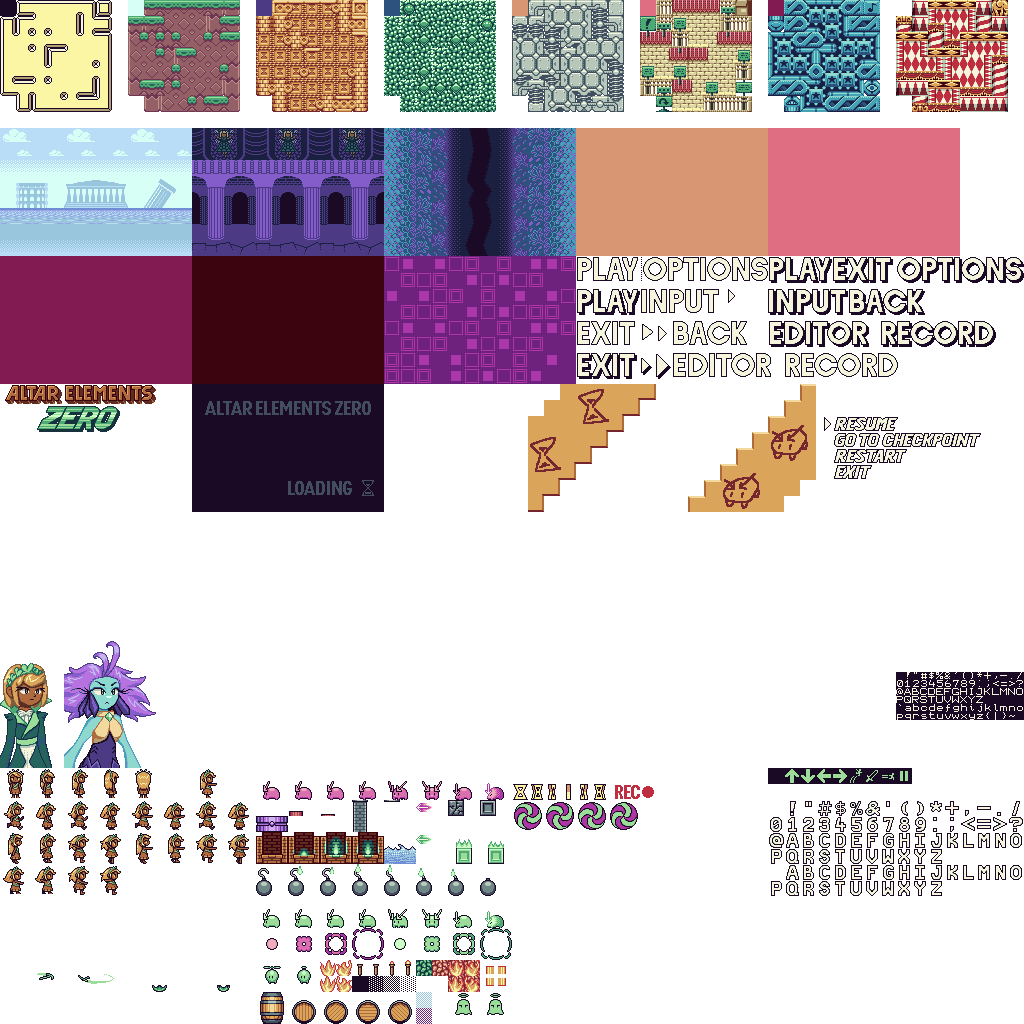
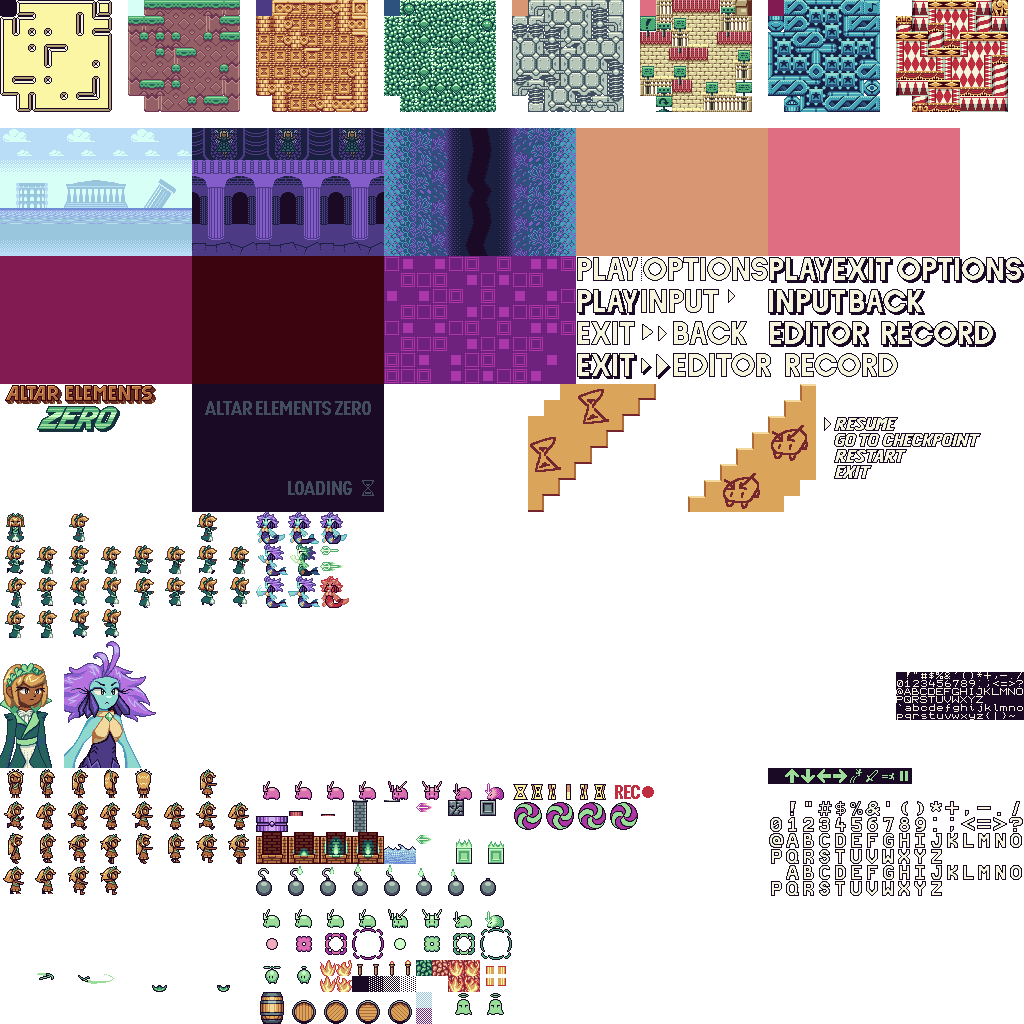
Updated Ora's Sprites

Changed region(s): [[0.0, 0.5, 0.3438, 0.625]]

diff --git a/AltarElementsZero/src/states/gameplay/gameObject/behaviour/player/Ora.cs b/AltarElementsZero/src/states/gameplay/gameObject/behaviour/player/Ora.cs
@@ -45,7 +45,7 @@ namespace AltarElementsZero.src.states.gameplay.gameObject.behaviour.player
 
 
 			gameObject.drawOrder = GameObject.DrawOrderTypes.MIDDLE;
-			gameObject.atlasReference.Start = LegacyMapper.StartFromOraSpritesheetIndex(0x00);
+			gameObject.atlasReference.Start = LegacyMapper.StartFromOraSpritesheetIndex(0x00) - new PxPosition(0,256);
 			gameObject.atlasReference.Size = new PxSize(32, 32);
 			gameObject.atlasReference.Effects = SpriteEffects.None;
 			gameObject.atlasReference.Offset = new PxPosition(10, 6);
@@ -313,38 +313,38 @@ namespace AltarElementsZero.src.states.gameplay.gameObject.behaviour.player
 					ref uint attackTimer = ref scythe.Timer2;
 					if (attackTimer > 6){
                         //gameObject.spritesheetIndex = 0x18;
-			            gameObject.atlasReference.Start = LegacyMapper.StartFromOraSpritesheetIndex(0x18);
+			            gameObject.atlasReference.Start = LegacyMapper.StartFromOraSpritesheetIndex(0x18) - new PxPosition(0, 256);
 					}
 					else
 					{
 						//gameObject.spritesheetIndex = 0x19;
-						gameObject.atlasReference.Start = LegacyMapper.StartFromOraSpritesheetIndex(0x19);
+						gameObject.atlasReference.Start = LegacyMapper.StartFromOraSpritesheetIndex(0x19) - new PxPosition(0, 256);
 					}
 				}
                 else if(scythe.State == (uint)Scythe.State.ACTIVE_DOWN)
                 {
                     //gameObject.spritesheetIndex = 0x13;
-					gameObject.atlasReference.Start = LegacyMapper.StartFromOraSpritesheetIndex(0x13);
+					gameObject.atlasReference.Start = LegacyMapper.StartFromOraSpritesheetIndex(0x13) - new PxPosition(0, 256);
 				}
                 else
                 {
                     if (inputHandler.IsDown(Input.Left))
                     {
 						//gameObject.spritesheetIndex = 0x08 + ((animationTimer>>3) & 0x3);
-						gameObject.atlasReference.Start = LegacyMapper.StartFromOraSpritesheetIndex(0x08 + ((animationTimer >> 3) & 0x3));
+						gameObject.atlasReference.Start = LegacyMapper.StartFromOraSpritesheetIndex(0x08 + ((animationTimer >> 3) & 0x3)) - new PxPosition(0, 256);
 						animationTimer++;
                     }
                     else if (inputHandler.IsDown(Input.Right))
                     {
 						//gameObject.spritesheetIndex = 0x08 + ((animationTimer >> 3) & 0x3);
-						gameObject.atlasReference.Start = LegacyMapper.StartFromOraSpritesheetIndex(0x08 + ((animationTimer >> 3) & 0x3));
+						gameObject.atlasReference.Start = LegacyMapper.StartFromOraSpritesheetIndex(0x08 + ((animationTimer >> 3) & 0x3)) - new PxPosition(0, 256);
 						animationTimer++;
                     }
                     else
                     {
                         animationTimer = 0;
 						//gameObject.spritesheetIndex = 0x2;
-						gameObject.atlasReference.Start = LegacyMapper.StartFromOraSpritesheetIndex(0x02);
+						gameObject.atlasReference.Start = LegacyMapper.StartFromOraSpritesheetIndex(0x02) - new PxPosition(0, 256);
 
 					}
 
@@ -365,18 +365,18 @@ namespace AltarElementsZero.src.states.gameplay.gameObject.behaviour.player
 					if (attackTimer > 6)
 					{
 						//gameObject.spritesheetIndex = 0x1A;
-						gameObject.atlasReference.Start = LegacyMapper.StartFromOraSpritesheetIndex(0x1A);
+						gameObject.atlasReference.Start = LegacyMapper.StartFromOraSpritesheetIndex(0x1A) - new PxPosition(0, 256);
 					}
 					else
 					{
                         //gameObject.spritesheetIndex = 0x1B;
-                        gameObject.atlasReference.Start = LegacyMapper.StartFromOraSpritesheetIndex(0x1B);
+                        gameObject.atlasReference.Start = LegacyMapper.StartFromOraSpritesheetIndex(0x1B) - new PxPosition(0, 256);
 					}
 				}
                 else if (scythe.State == (uint)Scythe.State.ACTIVE_DOWN)
                 {
 					//gameObject.spritesheetIndex = 0x13;
-					gameObject.atlasReference.Start = LegacyMapper.StartFromOraSpritesheetIndex(0x13);
+					gameObject.atlasReference.Start = LegacyMapper.StartFromOraSpritesheetIndex(0x13) - new PxPosition(0, 256);
 				}
 				else
                 { 
@@ -384,20 +384,20 @@ namespace AltarElementsZero.src.states.gameplay.gameObject.behaviour.player
                     {
                         animationTimer = 0;
 						//gameObject.spritesheetIndex = 0x10;
-						gameObject.atlasReference.Start = LegacyMapper.StartFromOraSpritesheetIndex(0x10);
+						gameObject.atlasReference.Start = LegacyMapper.StartFromOraSpritesheetIndex(0x10) - new PxPosition(0, 256);
 					}
 					else
                     {
                         if(animationTimer < 15)
                         {
 						    //gameObject.spritesheetIndex = 0x11;
-							gameObject.atlasReference.Start = LegacyMapper.StartFromOraSpritesheetIndex(0x11);
+							gameObject.atlasReference.Start = LegacyMapper.StartFromOraSpritesheetIndex(0x11) - new PxPosition(0, 256);
 							animationTimer++;
                         }
                         else
                         {
 							//gameObject.spritesheetIndex = 0x12;
-							gameObject.atlasReference.Start = LegacyMapper.StartFromOraSpritesheetIndex(0x12);
+							gameObject.atlasReference.Start = LegacyMapper.StartFromOraSpritesheetIndex(0x12) - new PxPosition(0, 256);
 						}
 					}
 
